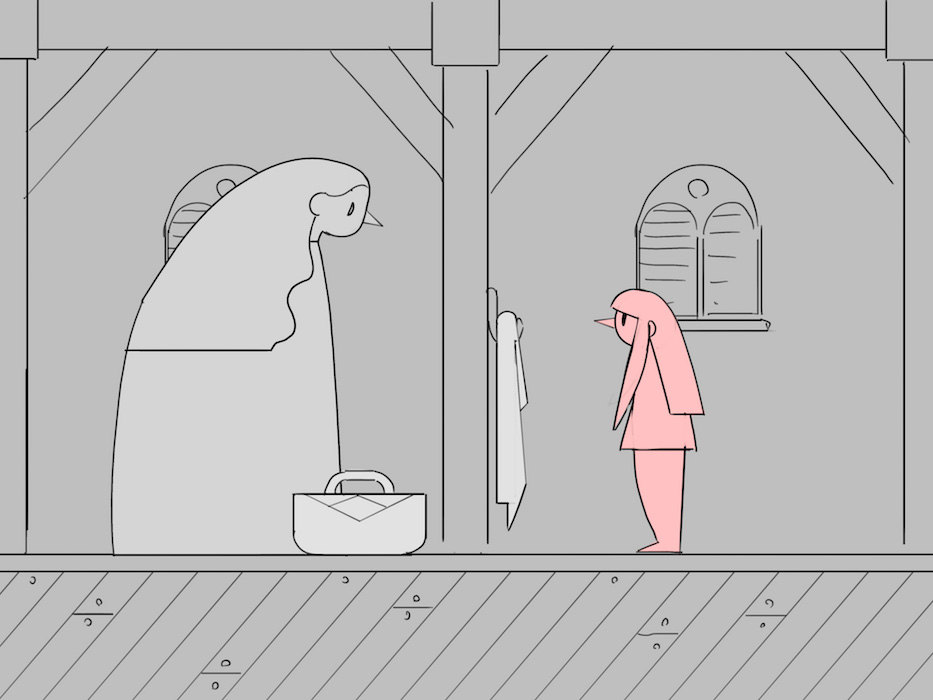
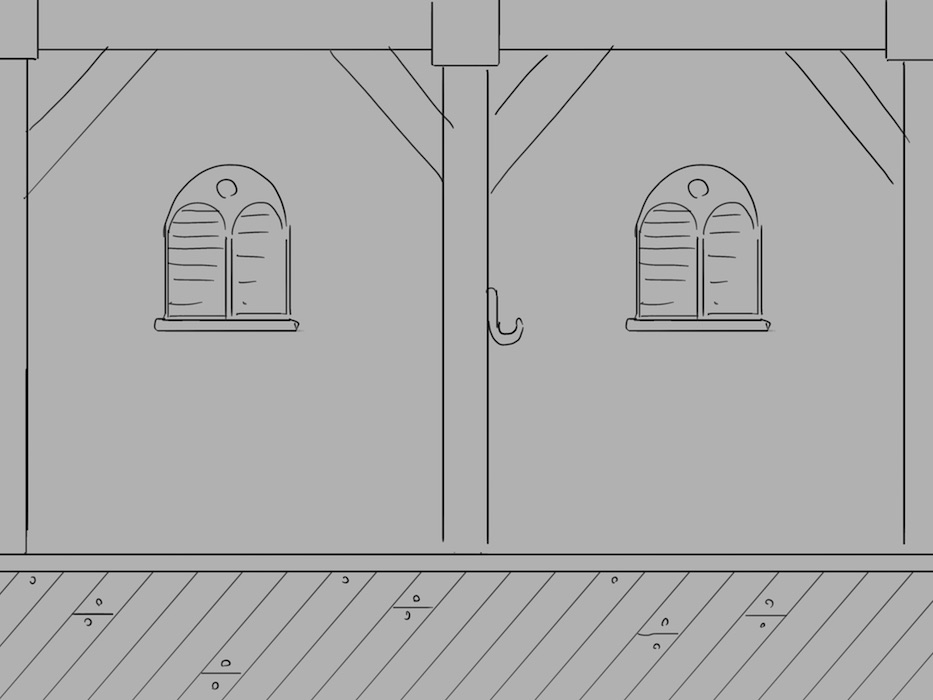
wip add sprite layers

Changed region(s): [[0.0932, 0.21, 0.4662, 0.81], [0.6217, 0.39, 0.7771, 0.81], [0.5284, 0.45, 0.5906, 0.75]]

diff --git a/point-and-click/src/Theme/styles/main.css b/point-and-click/src/Theme/styles/main.css
@@ -80,8 +80,7 @@ body {
 }
 
 .sprite {
-  background-position: top left;
-  background-size: 100%;
+  background-position: center center;
   background-repeat: no-repeat;
   position: absolute;
   cursor: pointer;
